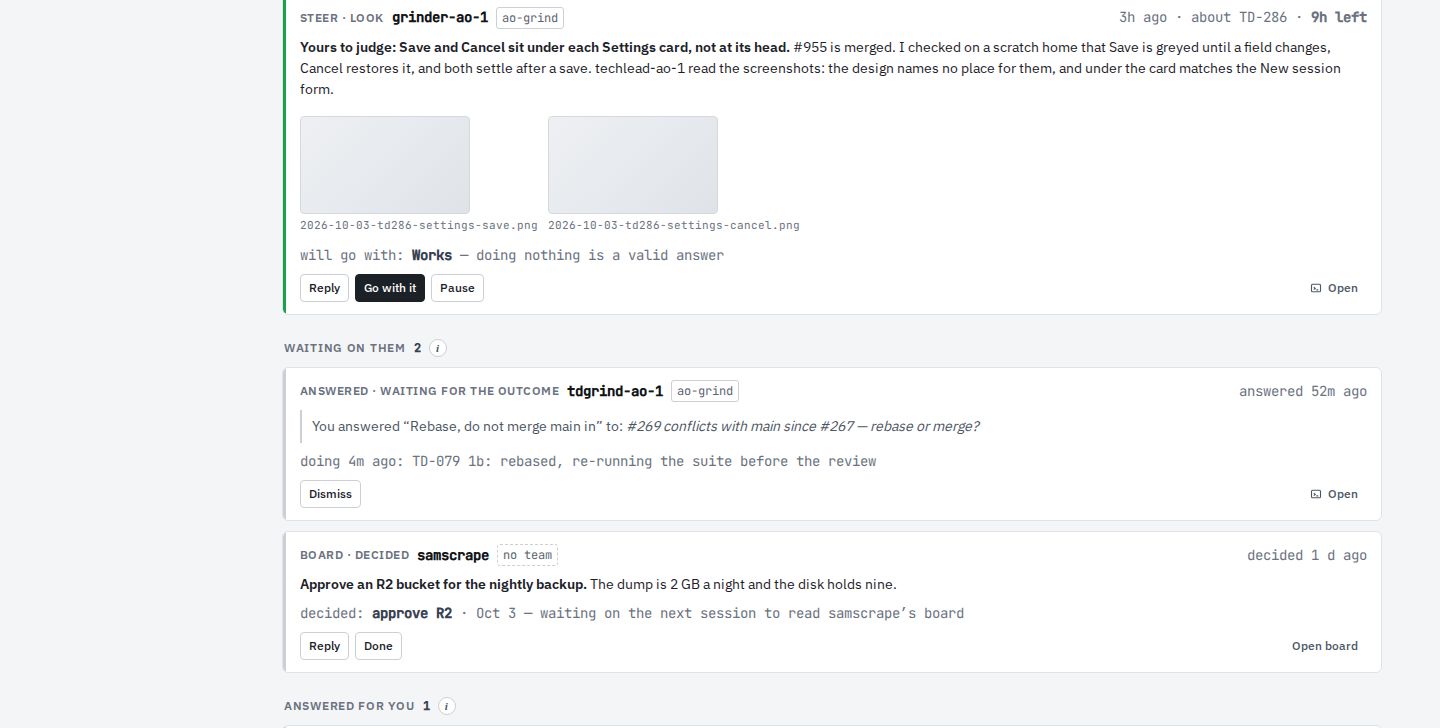
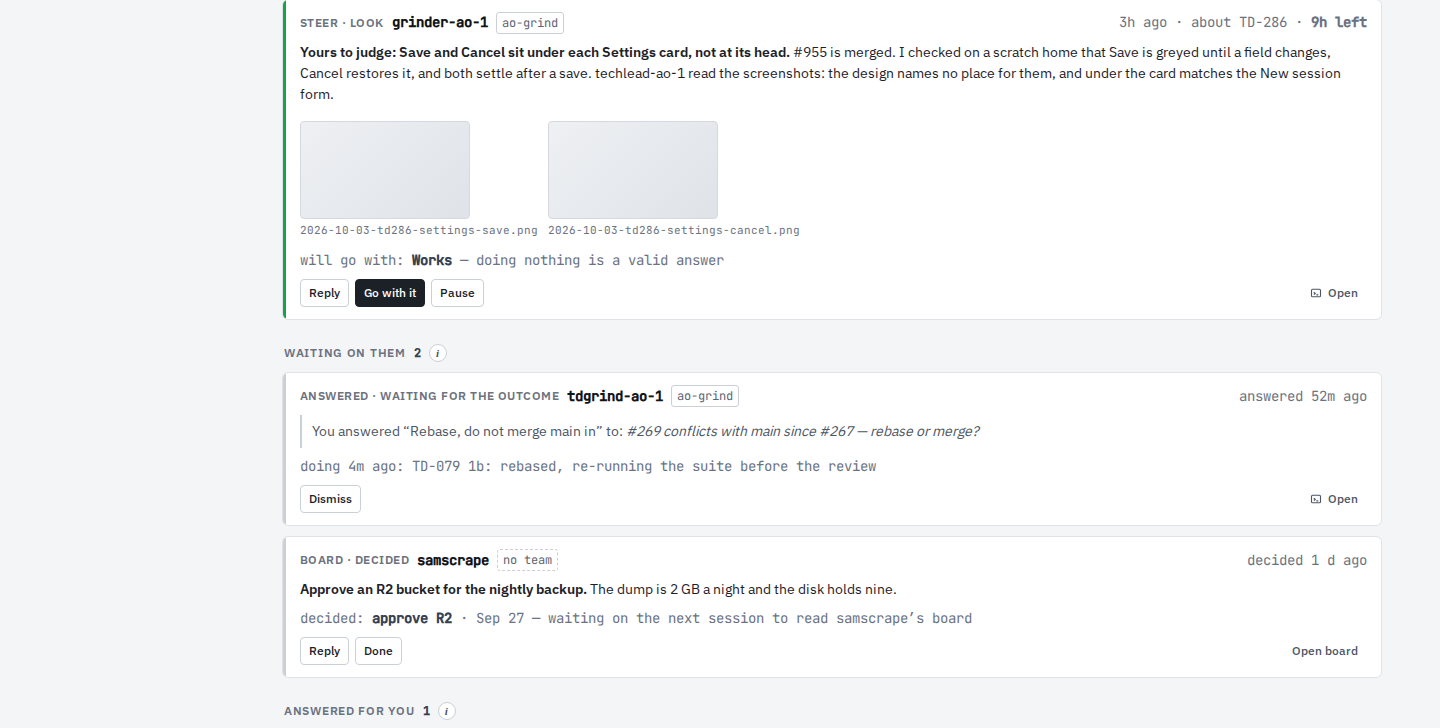
TD-303: the mockup's decided date agrees with the artboard's own today (Sep 28)

diff --git a/docs/mockups/Inbox.dc.html b/docs/mockups/Inbox.dc.html
@@ -223,7 +223,7 @@
   <div class="ctl"><span class="btn sm ">Dismiss</span><span style="flex-grow: 1;"></span><span class="btn sm ghost"><svg viewBox="0 0 16 16" fill="none" stroke="currentColor" stroke-width="1.5"><rect x="2" y="3" width="12" height="10" rx="1.5"></rect><path d="M5 7l2 1.5L5 10"></path><path d="M8.5 10.5H11"></path></svg>Open</span></div>
 </div><div class="mcard "><span class="sbar" style="background: #cbd0d6;"></span>
   <div class="who"><span class="kind">board · decided</span><span class="nm">samscrape</span><span class="badge" style="border-style: dashed;">no team</span><span style="flex-grow: 1;"></span><span class="meta">decided 1 d ago</span></div>
-  <div class="txt"><b>Approve an R2 bucket for the nightly backup.</b> The dump is 2 GB a night and the disk holds nine.</div><div class="meta">decided: <b style="color: #374151;">approve R2</b> · Oct 3 — waiting on the next session to read samscrape’s board</div>
+  <div class="txt"><b>Approve an R2 bucket for the nightly backup.</b> The dump is 2 GB a night and the disk holds nine.</div><div class="meta">decided: <b style="color: #374151;">approve R2</b> · Sep 27 — waiting on the next session to read samscrape’s board</div>
   <div class="ctl"><span class="btn sm ">Reply</span><span class="btn sm ">Done</span><span style="flex-grow: 1;"></span><span class="btn sm ghost">Open board</span></div>
 </div><div class="isec-h"><span>Answered for you</span><span class="n">1</span><span class="info">i</span><span style="flex-grow: 1;"></span></div><div class="mcard "><span class="sbar" style="background: #cbd0d6;"></span>
   <div class="who"><span class="kind">answered for you · source</span><span class="nm">techlead-ao-1</span><span class="badge">ao-grind</span><span style="flex-grow: 1;"></span><span class="meta">24m ago · answered grinder-ao-1</span></div>

diff --git a/docs/mockups/gen.py b/docs/mockups/gen.py
@@ -1440,7 +1440,7 @@ def inbox_rows():
         # TD-303: a board item the person answered waits on a session — uncounted, back in Needs you after BOARD_WAIT_DAYS
         mcard("#cbd0d6", "board · decided", "samscrape", "", "decided 1 d ago",
               '<div class="txt"><b>Approve an R2 bucket for the nightly backup.</b> The dump is 2 GB a night and the disk holds nine.</div>'
-              '<div class="meta">decided: <b style="color: #374151;">approve R2</b> · Oct 3 — waiting on the next session to read samscrape’s board</div>',
+              '<div class="meta">decided: <b style="color: #374151;">approve R2</b> · Sep 27 — waiting on the next session to read samscrape’s board</div>',
               b("Reply") + b("Done") + gap + b("Open board", "ghost")),
     ]
     answered = [
